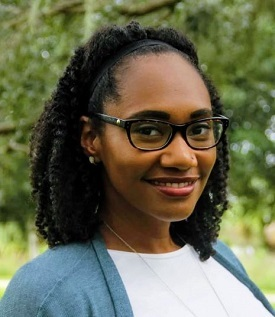
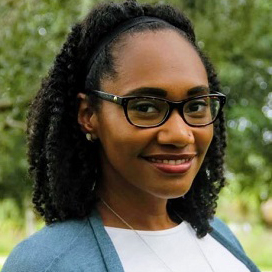
Adjust image/card size/layout

diff --git a/Main Page/main_page.html b/Main Page/main_page.html
@@ -179,8 +179,12 @@
 
       <section>
         <div class="row">
-          <div class="card col">
-            <img src="./assets/Lisa_Macon.JPG" class="card-img-top" alt="..." />
+          <div class="card col-md-4 cold-sm-auto">
+            <img 
+              src="./assets/Lisa_Macon.JPG" 
+              class="card-img-top" 
+              alt="..." 
+            />
             <div class="card-body">
               <h5 class="card-title">Dr. Lisa Macon</h5>
               <p class="card-text">
@@ -201,7 +205,7 @@
               >
             </div>
           </div>
-          <div class="card col">
+          <div class="card col-md-4 col-sm-auto">
             <img
               src="./assets/Corey_Leong.jpg"
               class="card-img-top"
@@ -228,7 +232,7 @@
               >
             </div>
           </div>
-          <div class="card col">
+          <div class="card col-md-4 col-sm-auto">
             <img
               src="./assets/Ashley_Evans.jpeg"
               class="card-img-top"

diff --git a/Main Page/styles.css b/Main Page/styles.css
@@ -21,9 +21,13 @@ h3 a.compcolor:hover {
   color: #bf311a;
 }
 
+.card {
+  padding-bottom: 50px;
+}
+
 .card-img-top {
   width: 30vw;
-  height: 47vh;
+  align-self: center;
   position: relative;
   display: inline-block;
   overflow: hidden;
